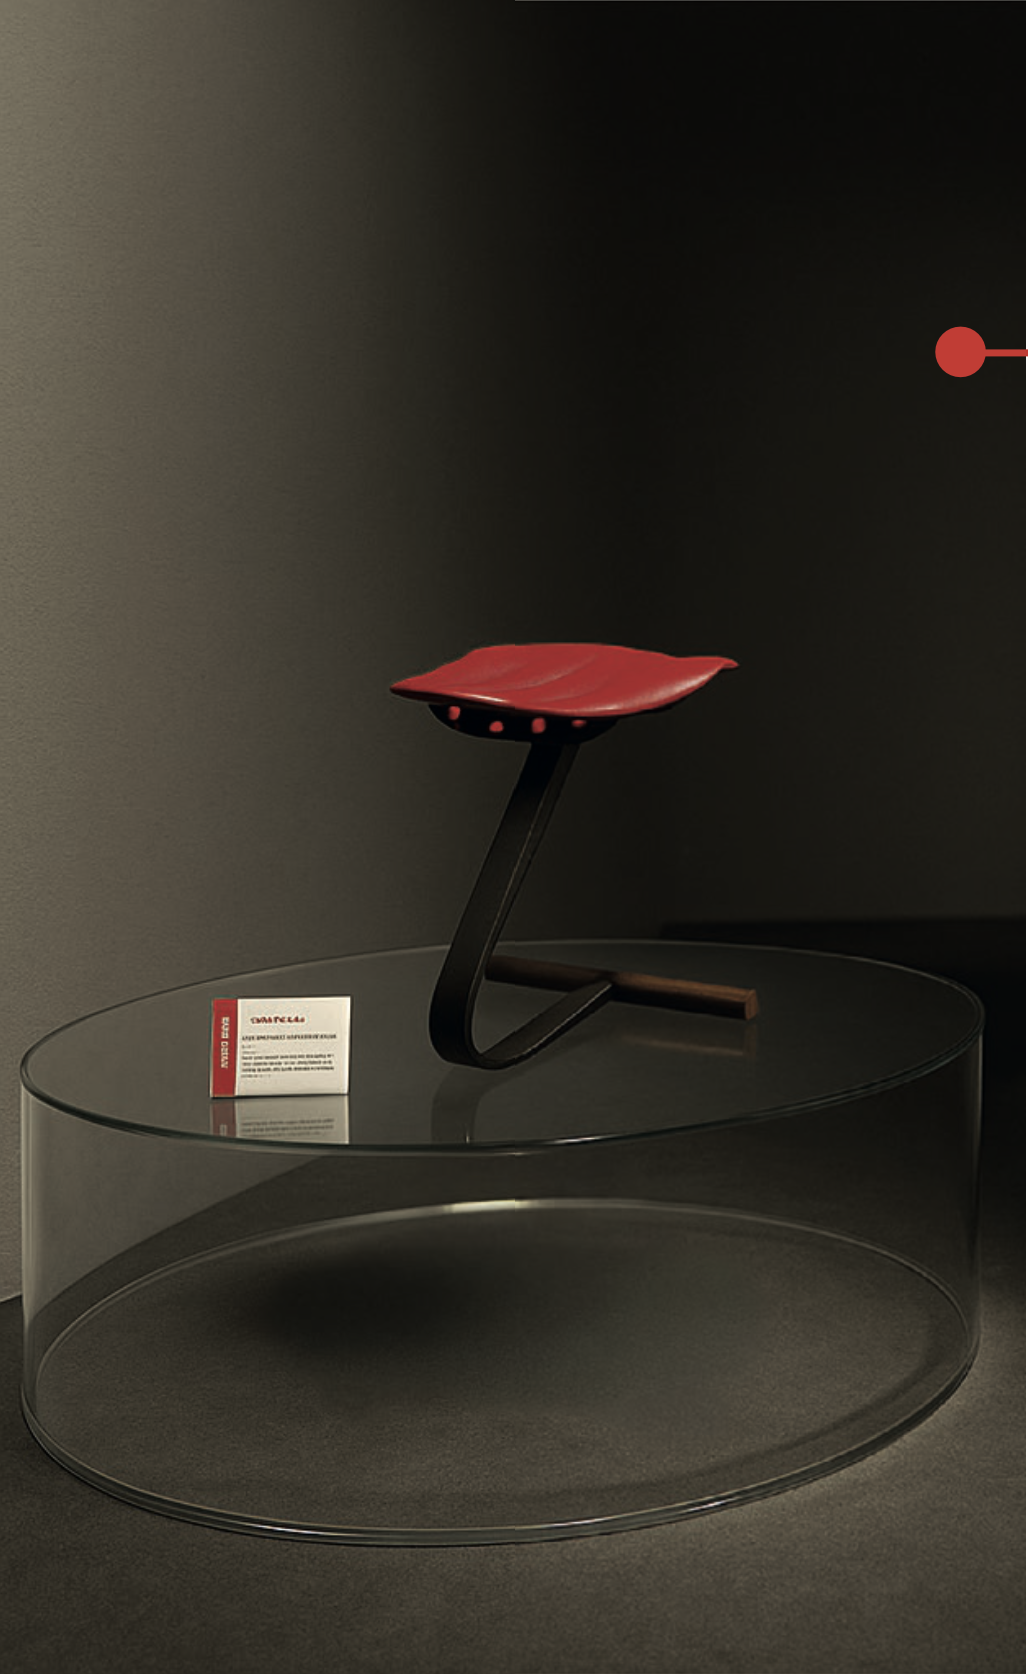
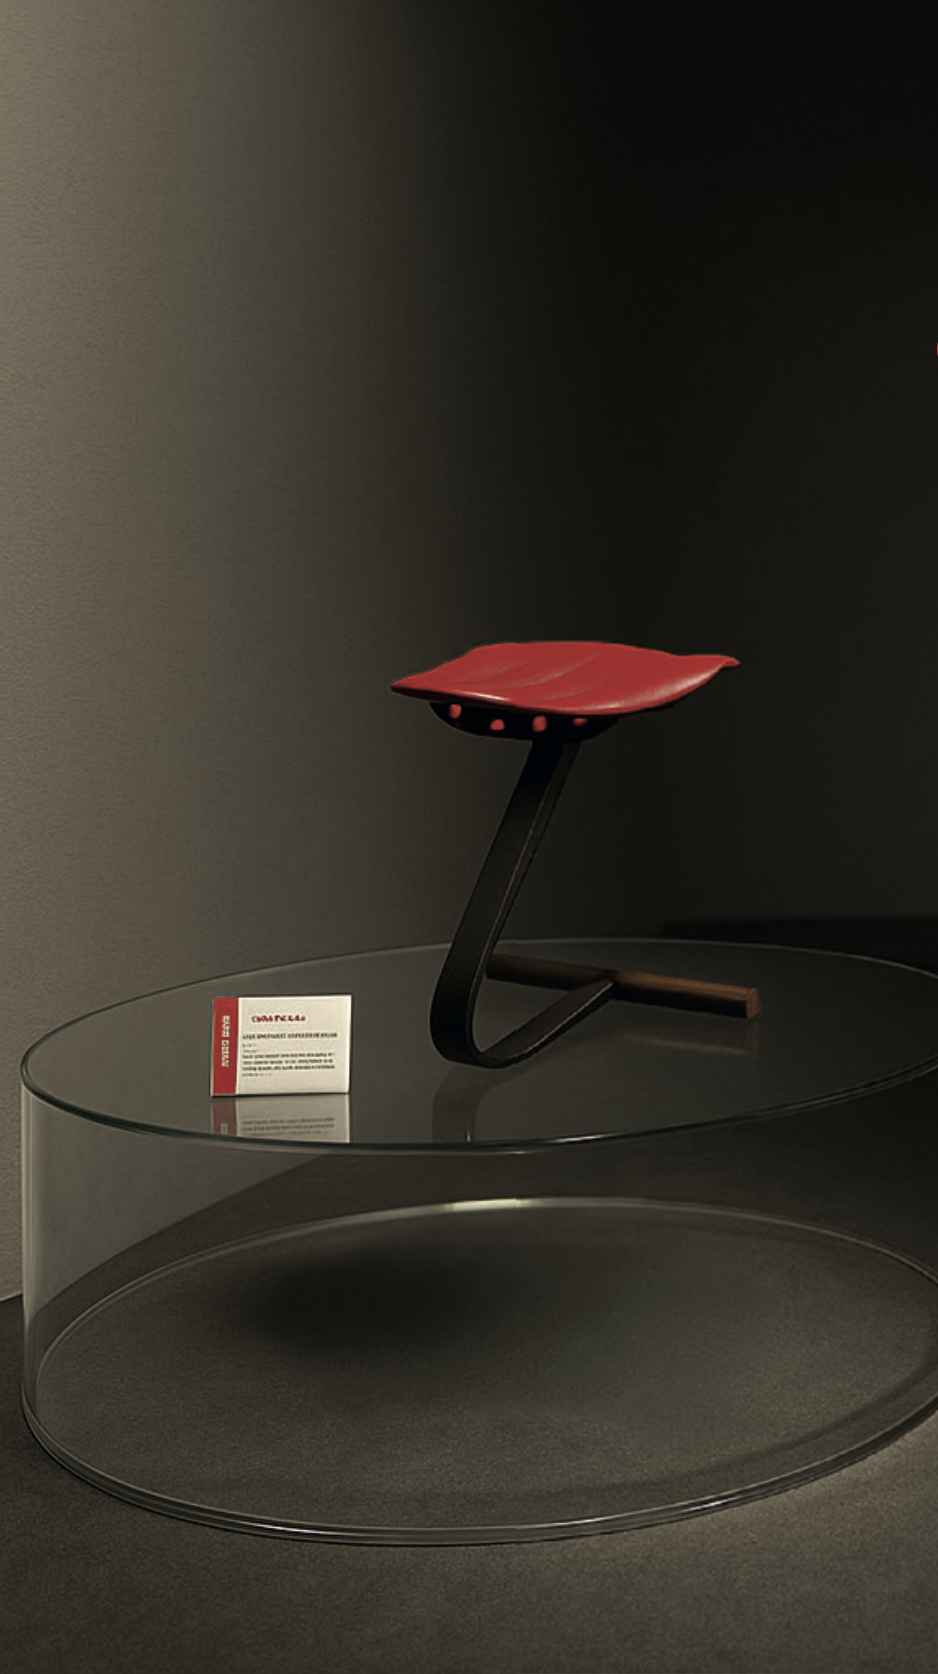
Complete Oltre La Soglia graphical redesign

diff --git a/oltre.html b/oltre.html
@@ -164,6 +164,59 @@
             </div>
         </section>
 
+        <!-- Part 1.5: Zanotta Objects Horizontal Marquee -->
+        <section class="w-full py-24 bg-[#0a0a0a] overflow-hidden border-t border-white/5">
+            <div class="max-w-[1400px] mx-auto px-6 md:px-12 mb-12 bento-header">
+                <h2 class="font-syne text-3xl md:text-4xl font-bold tracking-tight text-white mb-4">I PRODOTTI ZANOTTA</h2>
+                <p class="text-white/50 max-w-2xl font-light text-sm leading-relaxed">
+                    Sette oggetti iconici, scelti per la loro natura inclassificabile, esposti come opere d'arte all'interno dei cilindri autonomi.
+                </p>
+            </div>
+            
+            <!-- Horizontal scrolling flex container -->
+            <div class="w-full overflow-x-auto pb-8 hide-scrollbar cursor-ew-resize">
+                <div class="flex gap-6 px-6 md:px-12 w-max">
+                    <!-- Zanotta Items -->
+                    <div class="w-[280px] h-[400px] relative rounded-2xl overflow-hidden border border-white/10 bg-[#080808] group flex-shrink-0 bento-item">
+                        <img src="img/oltre/zanotta-1.png" alt="Zanotta Object 1" class="absolute inset-0 w-full h-full object-contain p-8 opacity-80 group-hover:scale-110 transition-transform duration-700">
+                        <div class="absolute inset-0 ring-1 ring-inset ring-white/10 rounded-2xl pointer-events-none"></div>
+                        <div class="absolute bottom-4 left-6"><span class="text-xs uppercase tracking-[0.2em] font-semibold text-white/50">Sacco</span></div>
+                    </div>
+                    <div class="w-[280px] h-[400px] relative rounded-2xl overflow-hidden border border-white/10 bg-[#080808] group flex-shrink-0 bento-item">
+                        <img src="img/oltre/zanotta-2.png" alt="Zanotta Object 2" class="absolute inset-0 w-full h-full object-contain p-8 opacity-80 group-hover:scale-110 transition-transform duration-700">
+                        <div class="absolute inset-0 ring-1 ring-inset ring-white/10 rounded-2xl pointer-events-none"></div>
+                        <div class="absolute bottom-4 left-6"><span class="text-xs uppercase tracking-[0.2em] font-semibold text-white/50">Mezzadro</span></div>
+                    </div>
+                    <div class="w-[280px] h-[400px] relative rounded-2xl overflow-hidden border border-white/10 bg-[#080808] group flex-shrink-0 bento-item">
+                        <img src="img/oltre/zanotta-3.png" alt="Zanotta Object 3" class="absolute inset-0 w-full h-full object-contain p-8 opacity-80 group-hover:scale-110 transition-transform duration-700">
+                        <div class="absolute inset-0 ring-1 ring-inset ring-white/10 rounded-2xl pointer-events-none"></div>
+                        <div class="absolute bottom-4 left-6"><span class="text-xs uppercase tracking-[0.2em] font-semibold text-white/50">Albero</span></div>
+                    </div>
+                    <div class="w-[280px] h-[400px] relative rounded-2xl overflow-hidden border border-white/10 bg-[#080808] group flex-shrink-0 bento-item">
+                        <img src="img/oltre/zanotta-4.png" alt="Zanotta Object 4" class="absolute inset-0 w-full h-full object-contain p-8 opacity-80 group-hover:scale-110 transition-transform duration-700">
+                        <div class="absolute inset-0 ring-1 ring-inset ring-white/10 rounded-2xl pointer-events-none"></div>
+                        <div class="absolute bottom-4 left-6"><span class="text-xs uppercase tracking-[0.2em] font-semibold text-white/50">Sgabillo</span></div>
+                    </div>
+                    <div class="w-[280px] h-[400px] relative rounded-2xl overflow-hidden border border-white/10 bg-[#080808] group flex-shrink-0 bento-item">
+                        <img src="img/oltre/zanotta-5.png" alt="Zanotta Object 5" class="absolute inset-0 w-full h-full object-contain p-8 opacity-80 group-hover:scale-110 transition-transform duration-700">
+                        <div class="absolute inset-0 ring-1 ring-inset ring-white/10 rounded-2xl pointer-events-none"></div>
+                        <div class="absolute bottom-4 left-6"><span class="text-xs uppercase tracking-[0.2em] font-semibold text-white/50">Joy</span></div>
+                    </div>
+                    <div class="w-[280px] h-[400px] relative rounded-2xl overflow-hidden border border-white/10 bg-[#080808] group flex-shrink-0 bento-item">
+                        <img src="img/oltre/zanotta-6.png" alt="Zanotta Object 6" class="absolute inset-0 w-full h-full object-contain p-8 opacity-80 group-hover:scale-110 transition-transform duration-700">
+                        <div class="absolute inset-0 ring-1 ring-inset ring-white/10 rounded-2xl pointer-events-none"></div>
+                        <div class="absolute bottom-4 left-6"><span class="text-xs uppercase tracking-[0.2em] font-semibold text-white/50">Sciangai</span></div>
+                    </div>
+                </div>
+            </div>
+            <!-- Scroll indicator for carousel -->
+            <div class="flex items-center gap-2 justify-center mt-6 text-white/30 text-[10px] tracking-[0.2em] uppercase">
+                <i data-lucide="arrow-left" class="w-3 h-3"></i>
+                Scorri per esplorare
+                <i data-lucide="arrow-right" class="w-3 h-3"></i>
+            </div>
+        </section>
+
         <!-- Part 2: Exhibition Logic & Lighting (Bento Layout) -->
         <section class="w-full py-24 bg-[#050505] border-y border-white/5 relative overflow-hidden">
             <!-- Decorative blurred background -->
@@ -219,27 +272,36 @@
             </div>
         </section>
 
-        <!-- Part 3: Photo Gallery -->
-        <section class="w-full py-24 border-t border-white/5 bg-[#0a0a0a]">
-            <div class="max-w-[1400px] mx-auto px-6 md:px-12">
+        <!-- Part 3: Architectural Blueprints -->
+        <section class="w-full py-32 bg-[#e5e5e5] border-t border-white/5 relative overflow-hidden text-black">
+            <div class="max-w-[1400px] mx-auto px-6 md:px-12 relative z-10">
                 <div class="text-center mb-16 bento-header">
-                    <h2 class="font-syne text-4xl md:text-5xl font-bold tracking-tight text-white mb-6">GALLERIA FOTOGRAFICA</h2>
-                    <p class="text-white/50 max-w-2xl mx-auto font-light text-sm leading-relaxed">
-                        Esplora ulteriori dettagli e scorci dell'allestimento immersivo.
+                    <h2 class="font-syne text-4xl md:text-5xl font-bold tracking-tight text-black mb-6">ARCHITECTURAL BLUEPRINTS</h2>
+                    <p class="text-black/60 max-w-2xl mx-auto font-medium text-sm leading-relaxed">
+                        Prospetti, sezioni e disegni tecnici che illustrano la complessità strutturale e le quote dell'allestimento all'interno del teatro.
                     </p>
                 </div>
                 
-                <div class="grid grid-cols-1 md:grid-cols-2 lg:grid-cols-3 gap-6">
-                    <div class="relative rounded-2xl overflow-hidden border border-white/10 bg-[#080808] aspect-square group bento-item">
-                        <img src="img/oltre/gallery-1.png" alt="Gallery 1" class="absolute inset-0 w-full h-full object-cover opacity-80 group-hover:scale-105 transition-transform duration-700">
+                <div class="grid grid-cols-1 lg:grid-cols-2 gap-8">
+                    <!-- Blueprint 1 -->
+                    <div class="relative rounded-sm overflow-hidden bg-white p-4 shadow-xl border border-black/10 group bento-item">
+                        <img src="img/oltre/blueprint-1.png" alt="Technical Blueprint 1" class="w-full h-auto object-contain mix-blend-multiply opacity-90 group-hover:opacity-100 transition-opacity duration-500">
                     </div>
-                    <div class="relative rounded-2xl overflow-hidden border border-white/10 bg-[#080808] aspect-square group bento-item">
-                        <img src="img/oltre/gallery-2.png" alt="Gallery 2" class="absolute inset-0 w-full h-full object-cover opacity-80 group-hover:scale-105 transition-transform duration-700">
-                    </div>
-                    <div class="relative rounded-2xl overflow-hidden border border-white/10 bg-[#080808] aspect-square group bento-item md:col-span-2 lg:col-span-1">
-                        <img src="img/oltre/gallery-3.png" alt="Gallery 3" class="absolute inset-0 w-full h-full object-cover opacity-80 group-hover:scale-105 transition-transform duration-700">
+                    <!-- Blueprint 2 -->
+                    <div class="relative rounded-sm overflow-hidden bg-white p-4 shadow-xl border border-black/10 group bento-item">
+                        <img src="img/oltre/blueprint-2.png" alt="Technical Blueprint 2" class="w-full h-auto object-contain mix-blend-multiply opacity-90 group-hover:opacity-100 transition-opacity duration-500">
                     </div>
                 </div>
+            </div>
+        </section>
+
+        <!-- Part 4: The Grand Finale -->
+        <section class="w-full h-[70vh] md:h-[90vh] relative bg-black overflow-hidden group">
+            <img src="img/oltre/finale.png" alt="The Grand Finale" class="absolute inset-0 w-full h-full object-cover opacity-70 transition-transform duration-[10s] ease-out group-hover:scale-110">
+            <div class="absolute inset-0 bg-gradient-to-t from-[#0a0a0a] via-black/20 to-transparent z-10"></div>
+            
+            <div class="absolute inset-0 flex items-center justify-center z-20 pointer-events-none">
+                <h2 class="font-syne text-5xl md:text-8xl font-bold text-white/10 uppercase tracking-tighter mix-blend-overlay">Oltre La Soglia</h2>
             </div>
         </section>
 
